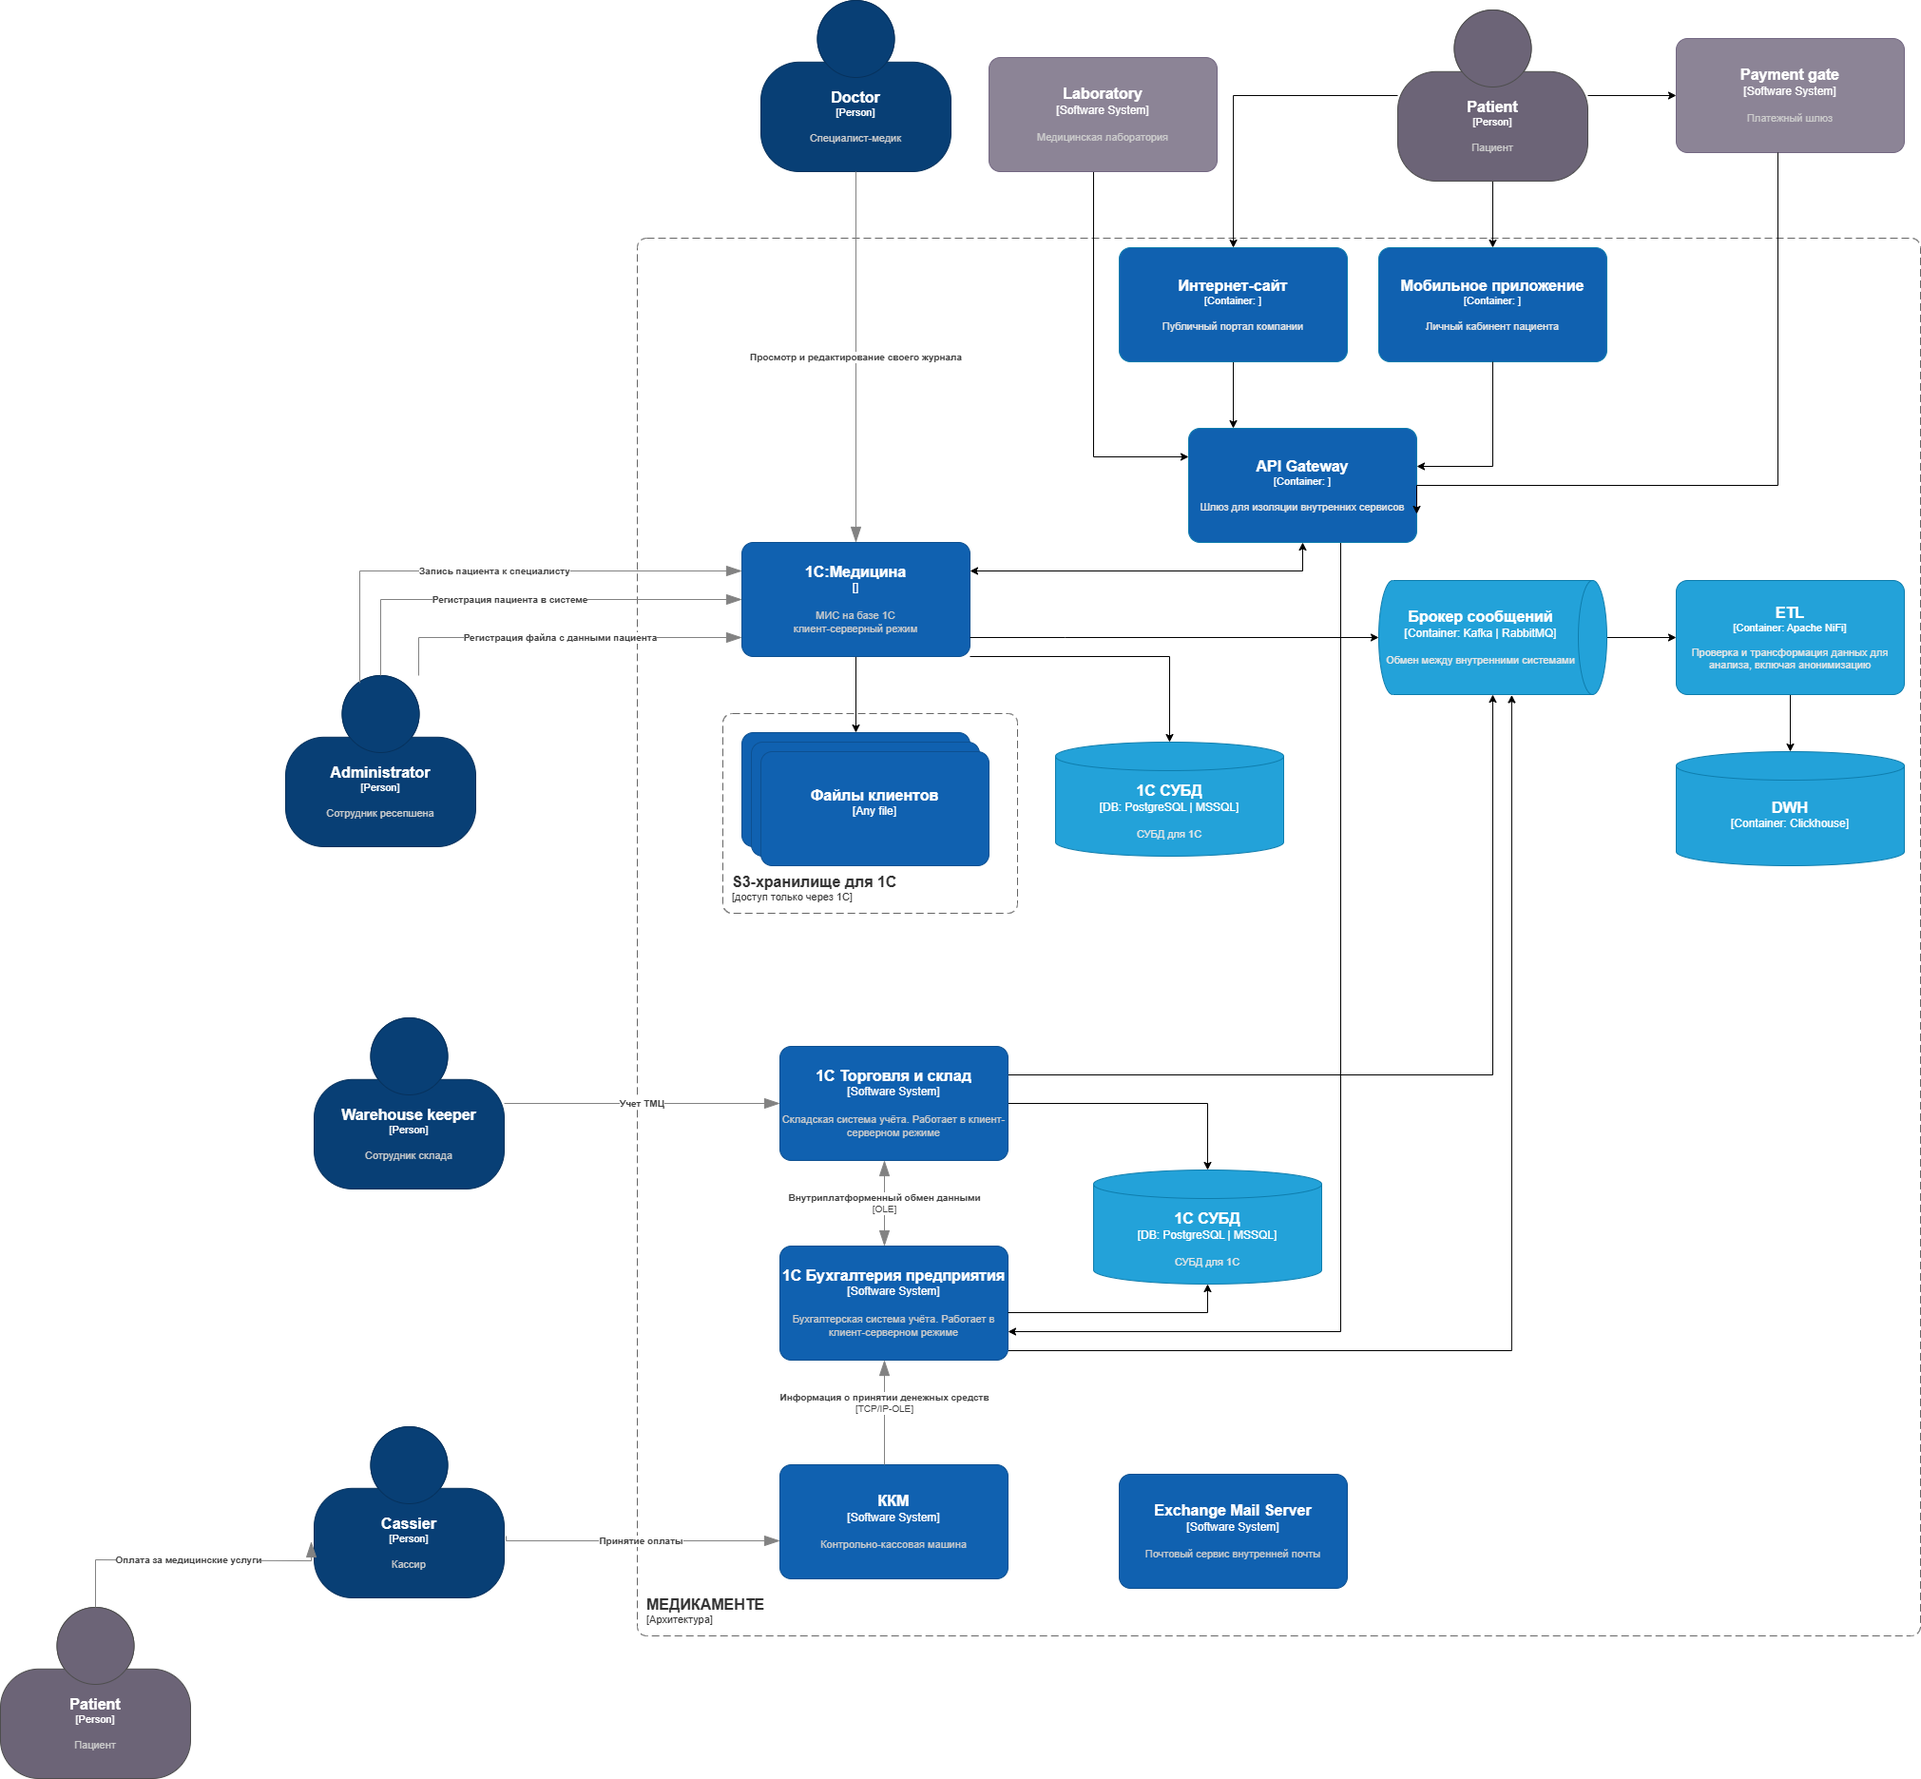
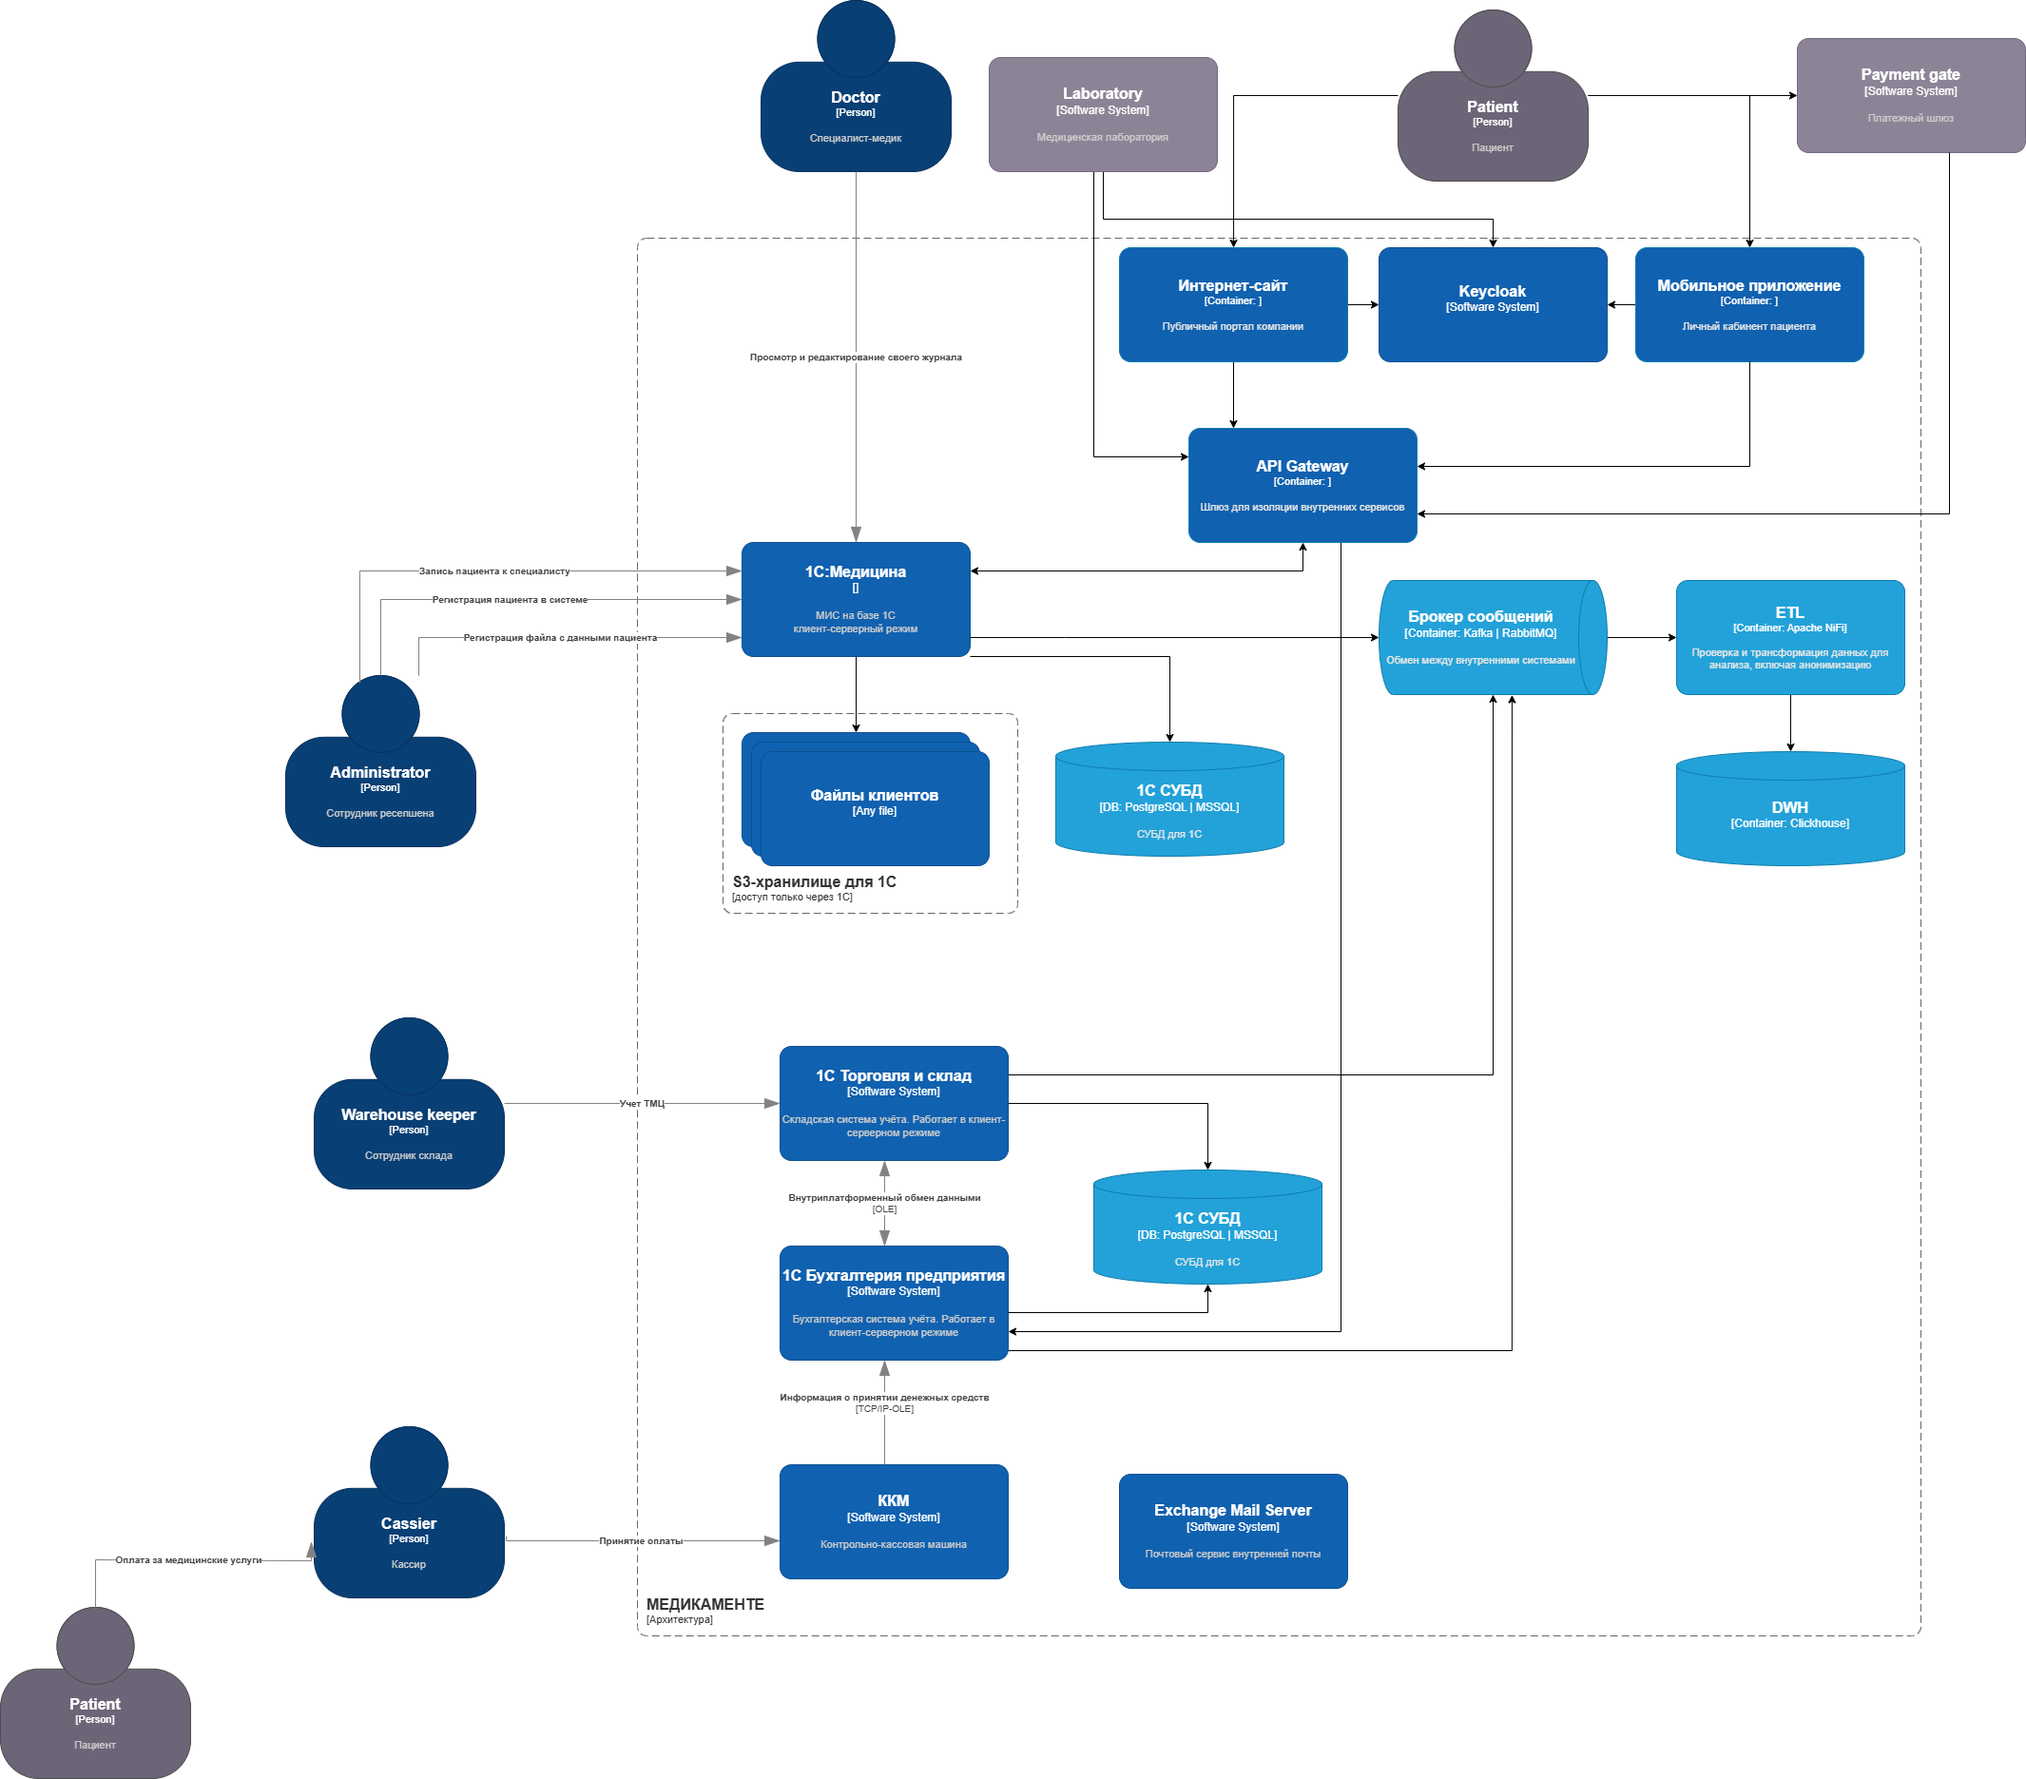
Task 2, 3

diff --git a/Task 3/README.md b/Task 3/README.md
@@ -1,1 +1,27 @@
 ## Задание 3. Оценка Data Encryption at Rest and In Transit
+
+| Вид данных | Уровень чувствительности | Состояние данных | Основные риски / необходимость защиты | Как защищаем | Средства защиты **in transit** | Инструменты |
+| --- | --- | --- | --- | --- | --- | --- |
+| Критические медицинские данные (PHI) | Критический | at rest, in transit, in use | Врачебная тайна, ст. 13 323-ФЗ + ст. 10 152-ФЗ | Шифрование at rest + RBAC+ABAC + MFA | TLS 1.3 (все HTTP-сервисы 1С, Kafka, NiFi) | 1С:Медицина (RLS + теги)  
+SQL Server TDE   
+Windows FCI + DAC + BitLocker  
+Exchange Transport Rules   
+Keycloak |
+| Персональные данные (PII) | Высокий | at rest, in transit | 152-ФЗ, утечки через почту и носители | Шифрование + RBAC + ABAC | TLS 1.3 + Exchange opportunistic TLS / forced TLS | 1С:Медицина (RLS + теги)  
+SQL Server TDE   
+Windows FCI + DAC + BitLocker  
+Exchange Transport Rules  |
+| Финансовые данные | Высокий | at rest, in transit | 152-ФЗ + 54-ФЗ + риск мошенничества | Tokenization + шифрование + строгий RBAC | TLS 1.3 + Exchange forced TLS для финансовых вложений | 1С:Бухгалтерия (RLS)  
+SQL Server TDE  
+BitLocker  
+Exchange Transport Rules |
+| Данные о сотрудниках | Высокий | at rest, in transit | 152-ФЗ (особые категории), внутренние утечки | Шифрование + RBAC (только HR) | TLS 1.3 + Exchange opportunistic / forced TLS | 1С:Бухгалтерия (RLS)  
+SQL Server TDE   
+Windows FCI + DAC + BitLocker  
+Exchange Transport Rules  |
+| Операционные / служебные данные | Средний | at rest | Коммерческая тайна, минимальные риски | NTFS-права + BitLocker | TLS 1.3 (если передача по сети) | BitLocker |
+| Данные лабораторий (заказы и сырые результаты) | Критический | in transit, at rest | Врачебная тайна при передаче | End-to-end шифрование + проверка согласия | TLS 1.3 (обязательно) | 1С:Медицина (RLS + теги)  
+SQL Server TDE   
+Windows FCI + DAC + BitLocker |
+| Логи и аудит событий | Высокий | at rest | Невозможность расследования инцидентов (ст. 19 152-ФЗ) | Append-only + шифрование + защита от изменения | TLS 1.3 (при передаче логов в центральный коллектор) | SQL Server Audit   
+Windows Event Forwarding |
